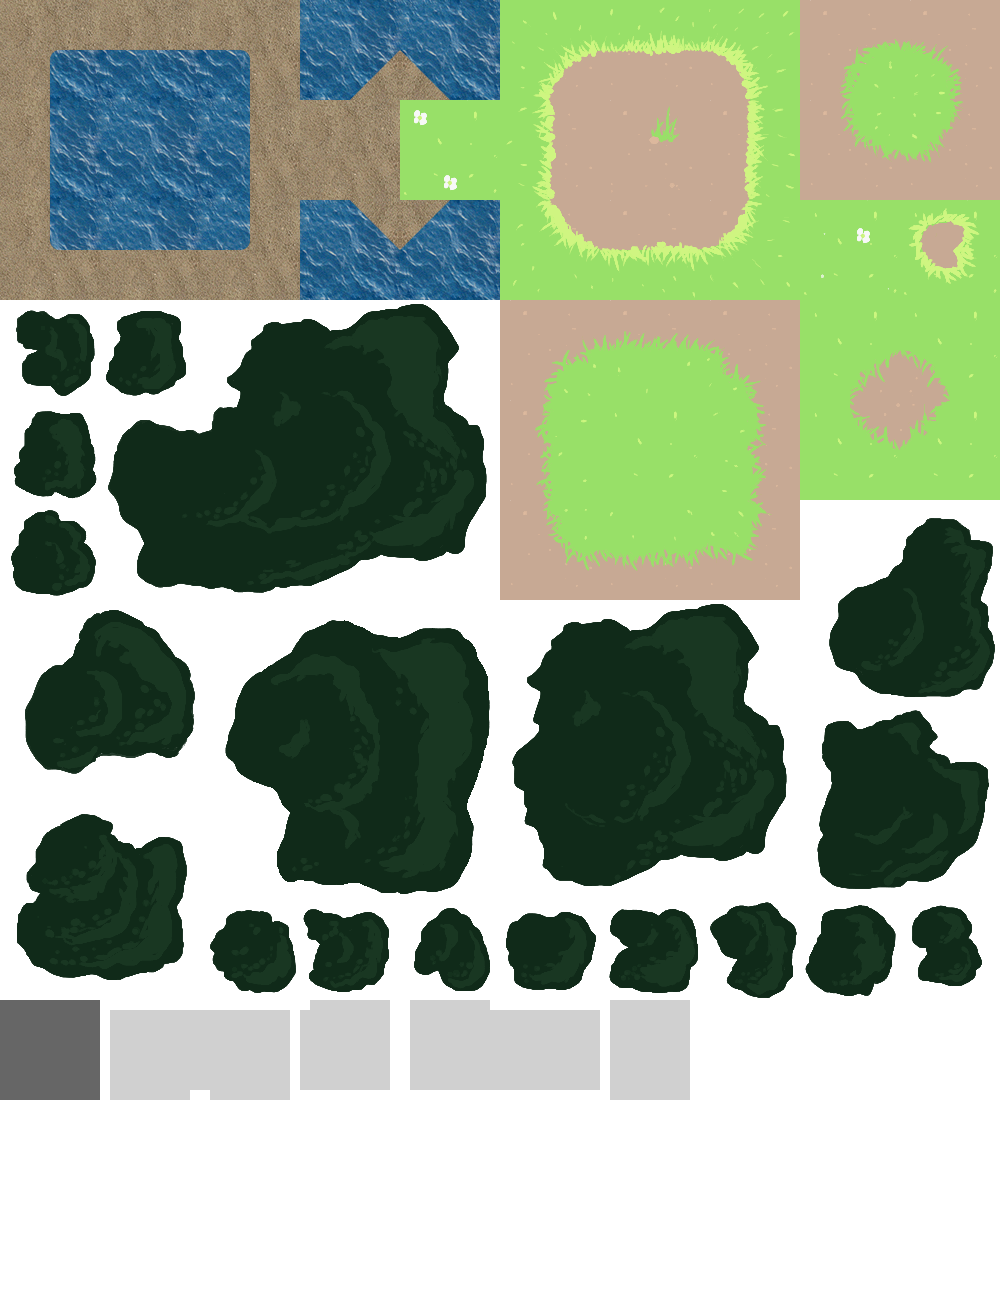
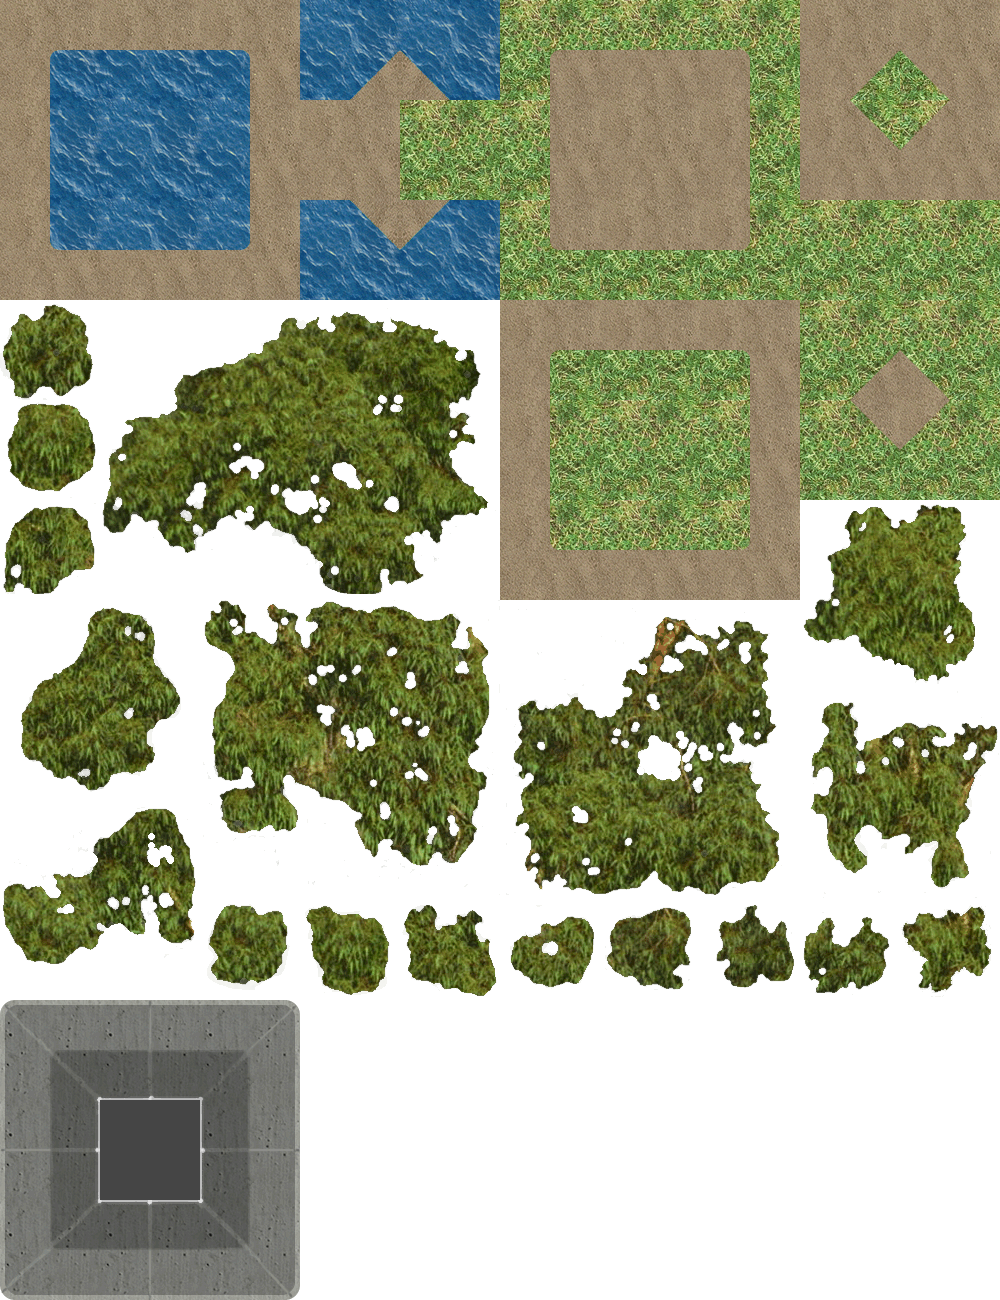
New tiles

diff --git a/Hunted/TerrainGeneration.cs b/Hunted/TerrainGeneration.cs
@@ -22,7 +22,7 @@ namespace Hunted
         const int GRASS = 47;
         const int GRASS_ALT1 = 15;
         const int GRASS_ALT2 = 29;
-        const int CONCRETE = 101;
+        const int CONCRETE = 112;
         const int CARPARK = 108;
 
         const int SAND_EDGE_UP = 22;
@@ -55,15 +55,17 @@ namespace Hunted
         const int GRASS_CORNER_OUTSIDE_BL = 56;
         const int GRASS_CORNER_OUTSIDE_BR = 58;
 
-        const int WALL_HORIZ = 106;
-        const int WALL_VERT = 107;
-        const int WALL_TL = 102;
+        const int WALL_EDGE_UP = 102;
+        const int WALL_EDGE_DOWN = 122;
+        const int WALL_EDGE_LEFT = 111;
+        const int WALL_EDGE_RIGHT = 113;
+        const int WALL_TL = 101;
         const int WALL_TR = 103;
-        const int WALL_BL = 105;
-        const int WALL_BR = 104;
+        const int WALL_BL = 121;
+        const int WALL_BR = 123;
 
         const int TREE = 31;
-        static int[] TREES = new int[] { 31, 32, 41, 51, 93, 94, 95, 96, 97, 98, 99, 100 };
+        static int[] TREES = new int[] { 31, 41, 51, 93, 94, 95, 96, 97, 98, 99, 100 };
         static List<Rectangle> BIG_TREES = new List<Rectangle>() {
             new Rectangle(2,4,4,3),
             new Rectangle(1,7,2,2),
@@ -408,13 +410,13 @@ namespace Hunted
 
                                 for (int xx = innerBounds.Left + 1; xx <= innerBounds.Right - 1; xx++)
                                 {
-                                    wallLayer.Tiles[xx, innerBounds.Top] = map.Tiles[WALL_HORIZ];
-                                    wallLayer.Tiles[xx, innerBounds.Bottom] = map.Tiles[WALL_HORIZ];
+                                    wallLayer.Tiles[xx, innerBounds.Top] = map.Tiles[WALL_EDGE_UP];
+                                    wallLayer.Tiles[xx, innerBounds.Bottom] = map.Tiles[WALL_EDGE_DOWN];
                                 } 
                                 for (int yy = innerBounds.Top + 1; yy <= innerBounds.Bottom - 1; yy++)
                                 {
-                                    wallLayer.Tiles[innerBounds.Left,yy] = map.Tiles[WALL_VERT];
-                                    wallLayer.Tiles[innerBounds.Right,yy] = map.Tiles[WALL_VERT];
+                                    wallLayer.Tiles[innerBounds.Left, yy] = map.Tiles[WALL_EDGE_LEFT];
+                                    wallLayer.Tiles[innerBounds.Right,yy] = map.Tiles[WALL_EDGE_RIGHT];
                                 }
 
                                 newCompound.Bounds = bounds;
@@ -481,9 +483,9 @@ namespace Hunted
                                     {
                                         lightSpacing = 0;
                                     
-                                        if (GetTileIndex(map, wallLayer, xx, innerBounds.Top) == WALL_HORIZ &&
-                                            GetTileIndex(map, wallLayer, xx-2, innerBounds.Top) == WALL_HORIZ &&
-                                            GetTileIndex(map, wallLayer, xx+2, innerBounds.Top) == WALL_HORIZ)
+                                        if (GetTileIndex(map, wallLayer, xx, innerBounds.Top) == WALL_EDGE_UP &&
+                                            GetTileIndex(map, wallLayer, xx - 2, innerBounds.Top) == WALL_EDGE_UP &&
+                                            GetTileIndex(map, wallLayer, xx + 2, innerBounds.Top) == WALL_EDGE_UP)
                                         {
                                             LightSource ls = new LightSource(gd, 300, LightAreaQuality.Low, Color.White, BeamStencilType.None, SpotStencilType.Half);
                                             ls.Rotation = MathHelper.PiOver2;
@@ -491,9 +493,9 @@ namespace Hunted
                                             lightingEngine.LightSources.Add(ls);
                                         }
 
-                                        if (GetTileIndex(map, wallLayer, xx, innerBounds.Bottom) == WALL_HORIZ &&
-                                            GetTileIndex(map, wallLayer, xx-2, innerBounds.Bottom) == WALL_HORIZ &&
-                                            GetTileIndex(map, wallLayer, xx+2, innerBounds.Bottom) == WALL_HORIZ)
+                                        if (GetTileIndex(map, wallLayer, xx, innerBounds.Bottom) == WALL_EDGE_DOWN &&
+                                            GetTileIndex(map, wallLayer, xx - 2, innerBounds.Bottom) == WALL_EDGE_DOWN &&
+                                            GetTileIndex(map, wallLayer, xx + 2, innerBounds.Bottom) == WALL_EDGE_DOWN)
                                         {
                                             LightSource ls = new LightSource(gd, 300, LightAreaQuality.Low, Color.White, BeamStencilType.None, SpotStencilType.Half);
                                             ls.Rotation = MathHelper.PiOver2 + MathHelper.Pi;
@@ -510,9 +512,9 @@ namespace Hunted
                                     {
                                         lightSpacing = 0;
 
-                                        if (GetTileIndex(map, wallLayer, innerBounds.Left, yy) == WALL_VERT &&
-                                            GetTileIndex(map, wallLayer, innerBounds.Left, yy - 2) == WALL_VERT &&
-                                            GetTileIndex(map, wallLayer, innerBounds.Left, yy + 2) == WALL_VERT)
+                                        if (GetTileIndex(map, wallLayer, innerBounds.Left, yy) == WALL_EDGE_LEFT &&
+                                            GetTileIndex(map, wallLayer, innerBounds.Left, yy - 2) == WALL_EDGE_LEFT &&
+                                            GetTileIndex(map, wallLayer, innerBounds.Left, yy + 2) == WALL_EDGE_LEFT)
                                         {
                                             LightSource ls = new LightSource(gd, 300, LightAreaQuality.Low, Color.White, BeamStencilType.None, SpotStencilType.Half);
                                             //ls.Rotation = MathHelper.PiOver2;
@@ -520,9 +522,9 @@ namespace Hunted
                                             lightingEngine.LightSources.Add(ls);
                                         }
 
-                                        if (GetTileIndex(map, wallLayer, innerBounds.Right, yy) == WALL_VERT &&
-                                           GetTileIndex(map, wallLayer, innerBounds.Right, yy - 2) == WALL_VERT &&
-                                           GetTileIndex(map, wallLayer, innerBounds.Right, yy + 2) == WALL_VERT)
+                                        if (GetTileIndex(map, wallLayer, innerBounds.Right, yy) == WALL_EDGE_RIGHT &&
+                                           GetTileIndex(map, wallLayer, innerBounds.Right, yy - 2) == WALL_EDGE_RIGHT &&
+                                           GetTileIndex(map, wallLayer, innerBounds.Right, yy + 2) == WALL_EDGE_RIGHT)
                                         {
                                             LightSource ls = new LightSource(gd, 300, LightAreaQuality.Low, Color.White, BeamStencilType.None, SpotStencilType.Half);
                                             ls.Rotation = MathHelper.Pi;
@@ -627,13 +629,13 @@ namespace Hunted
 
                     for (int xx = rect.Left + 1; xx <= rect.Right - 1; xx++)
                     {
-                        wallLayer.Tiles[xx, rect.Top] = map.Tiles[WALL_HORIZ];
-                        wallLayer.Tiles[xx, rect.Bottom] = map.Tiles[WALL_HORIZ];
+                        wallLayer.Tiles[xx, rect.Top] = map.Tiles[WALL_EDGE_UP];
+                        wallLayer.Tiles[xx, rect.Bottom] = map.Tiles[WALL_EDGE_DOWN];
                     } 
                     for (int yy = rect.Top + 1; yy <= rect.Bottom - 1; yy++)
                     {
-                        wallLayer.Tiles[rect.Left,yy] = map.Tiles[WALL_VERT];
-                        wallLayer.Tiles[rect.Right,yy] = map.Tiles[WALL_VERT];
+                        wallLayer.Tiles[rect.Left,yy] = map.Tiles[WALL_EDGE_LEFT];
+                        wallLayer.Tiles[rect.Right,yy] = map.Tiles[WALL_EDGE_RIGHT];
                     }
 
                     // Exits

diff --git a/hunted/dude/Dude.cs b/hunted/dude/Dude.cs
@@ -123,29 +123,29 @@ namespace Hunted
             if (Speed.X > 0f)
             {
                 if (gameMap.CheckCollision(Helper.PointOnCircle(ref Position, 50, 0f))) RCollision = true;
-                if (gameMap.CheckCollision(Helper.PointOnCircle(ref Position, 50, -0.2f))) RCollision = true;
-                if (gameMap.CheckCollision(Helper.PointOnCircle(ref Position, 50, 0.2f))) RCollision = true;
+                if (gameMap.CheckCollision(Helper.PointOnCircle(ref Position, 50, -0.4f))) RCollision = true;
+                if (gameMap.CheckCollision(Helper.PointOnCircle(ref Position, 50, 0.4f))) RCollision = true;
             }
 
             if (Speed.X < 0f)
             {
                 if (gameMap.CheckCollision(Helper.PointOnCircle(ref Position, 50, MathHelper.Pi))) LCollision = true;
-                if (gameMap.CheckCollision(Helper.PointOnCircle(ref Position, 50, MathHelper.Pi - 0.2f))) LCollision = true;
-                if (gameMap.CheckCollision(Helper.PointOnCircle(ref Position, 50, MathHelper.Pi + 0.2f))) LCollision = true;
+                if (gameMap.CheckCollision(Helper.PointOnCircle(ref Position, 50, MathHelper.Pi - 0.4f))) LCollision = true;
+                if (gameMap.CheckCollision(Helper.PointOnCircle(ref Position, 50, MathHelper.Pi + 0.4f))) LCollision = true;
             }
 
             if (Speed.Y < 0f)
             {
                 if (gameMap.CheckCollision(Helper.PointOnCircle(ref Position, 50, (MathHelper.PiOver2 + MathHelper.Pi)))) UCollision = true;
-                if (gameMap.CheckCollision(Helper.PointOnCircle(ref Position, 50, (MathHelper.PiOver2 + MathHelper.Pi) - 0.2f))) UCollision = true;
-                if (gameMap.CheckCollision(Helper.PointOnCircle(ref Position, 50, (MathHelper.PiOver2 + MathHelper.Pi) + 0.2f))) UCollision = true;
+                if (gameMap.CheckCollision(Helper.PointOnCircle(ref Position, 50, (MathHelper.PiOver2 + MathHelper.Pi) - 0.4f))) UCollision = true;
+                if (gameMap.CheckCollision(Helper.PointOnCircle(ref Position, 50, (MathHelper.PiOver2 + MathHelper.Pi) + 0.4f))) UCollision = true;
             }
 
             if (Speed.Y > 0f)
             {
                 if (gameMap.CheckCollision(Helper.PointOnCircle(ref Position, 50, MathHelper.PiOver2))) DCollision = true;
-                if (gameMap.CheckCollision(Helper.PointOnCircle(ref Position, 50, MathHelper.PiOver2 - 0.2f))) DCollision = true;
-                if (gameMap.CheckCollision(Helper.PointOnCircle(ref Position, 50, MathHelper.PiOver2 + 0.2f))) DCollision = true;
+                if (gameMap.CheckCollision(Helper.PointOnCircle(ref Position, 50, MathHelper.PiOver2 - 0.4f))) DCollision = true;
+                if (gameMap.CheckCollision(Helper.PointOnCircle(ref Position, 50, MathHelper.PiOver2 + 0.4f))) DCollision = true;
             }
 
             if (Speed.X > 0f && RCollision) Speed.X = 0f;
